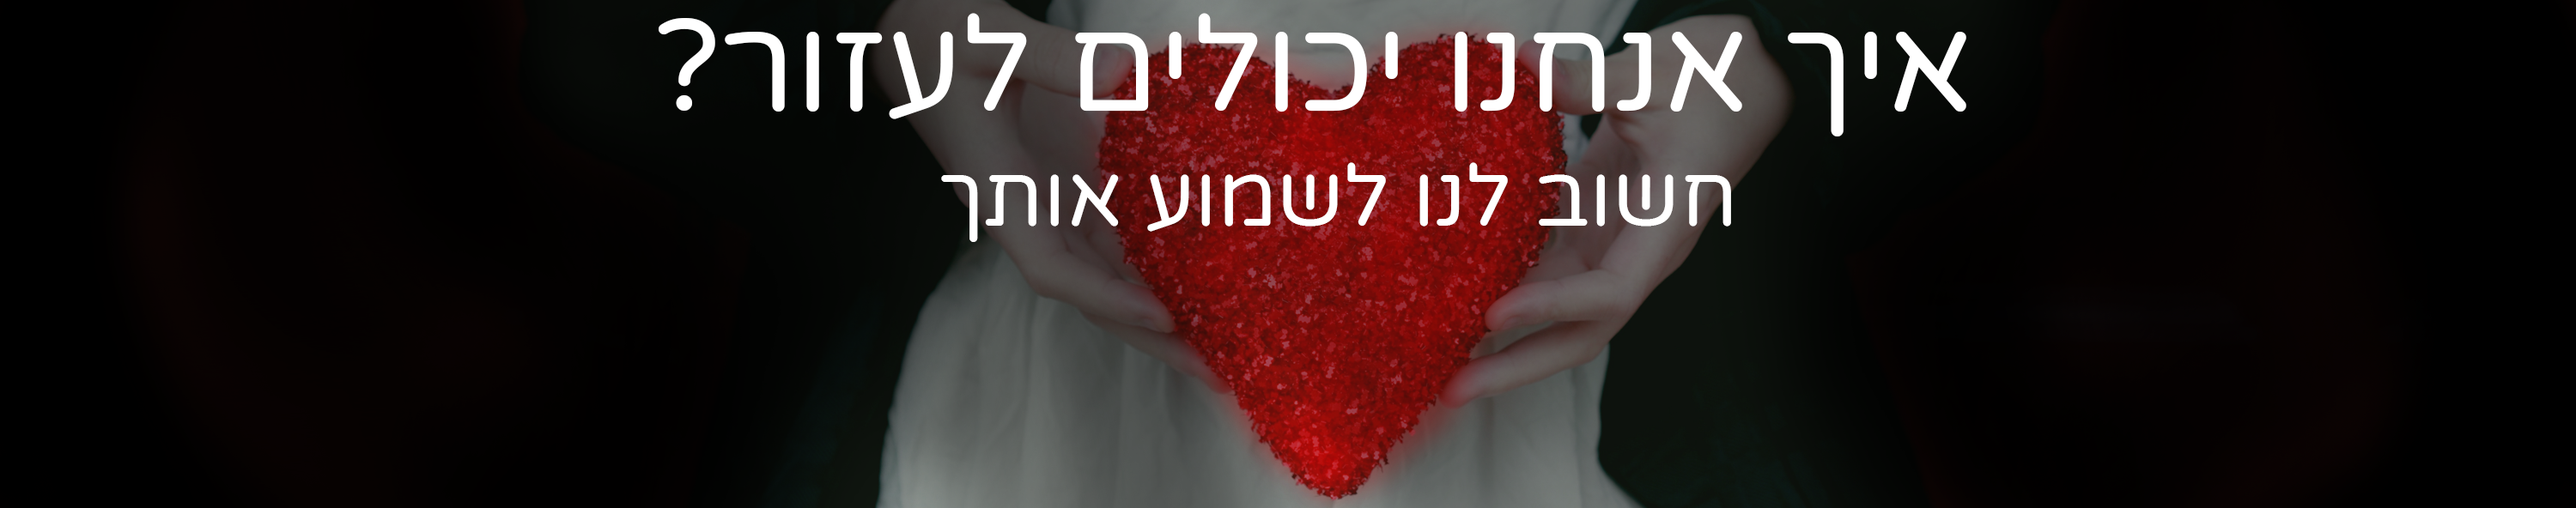
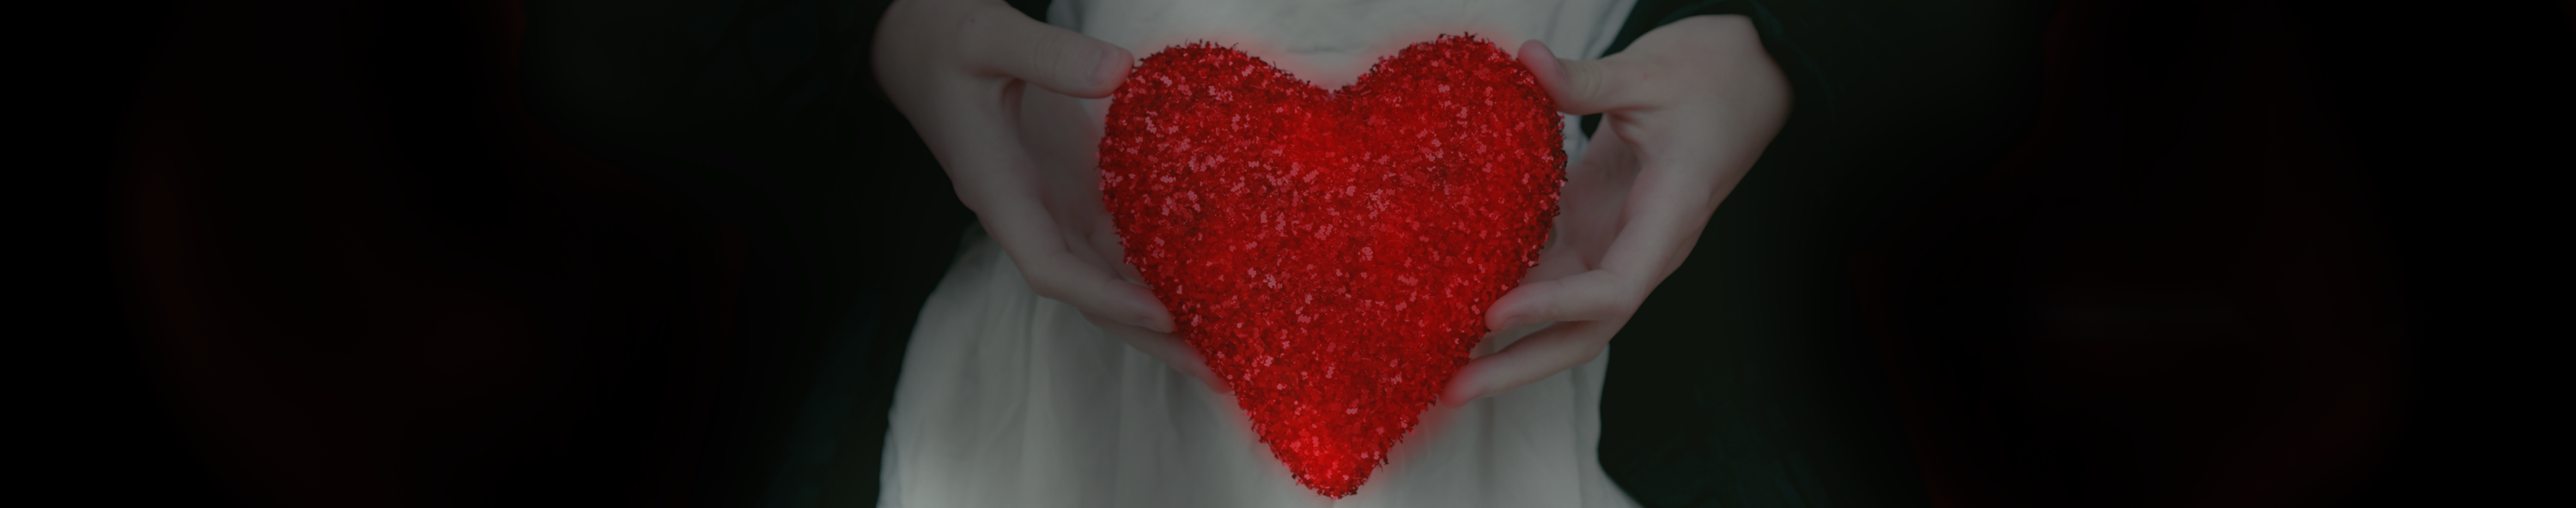
fixed home page styles

Changed region(s): [[0.248, 0.0304, 0.775, 0.2432], [0.372, 0.3345, 0.682, 0.4561]]

diff --git a/src/app/support-rep/support-rep.page.ts b/src/app/support-rep/support-rep.page.ts
@@ -3,6 +3,7 @@ import { FirestoreService } from '../firebase/firestore/firestore.service';
 import { GlobalService } from '../global/global.service';
 import { ActivatedRoute } from '@angular/router';
 import { AngularFireAuth } from '@angular/fire/auth';
+import { AlertController } from '@ionic/angular';
 
 @Component({
   selector: 'app-support-rep',
@@ -31,7 +32,8 @@ export class SupportRepPage implements OnInit {
     private firestore: FirestoreService,
     private global: GlobalService,
     private activatedRoute: ActivatedRoute,
-    private userAuth: AngularFireAuth) { }
+    private userAuth: AngularFireAuth,
+    private alertController: AlertController) { }
 
   ngOnInit() {
     this.firestore.getAdmins().subscribe(result => {
@@ -69,7 +71,21 @@ export class SupportRepPage implements OnInit {
     });
   }
 
-  createSupportRep() {
+  async createSupportRep() {
+
+// tslint:disable-next-line: max-line-length
+    if (this.first_name.value === '' || this.last_name.value === '' || this.id.value === '' || this.address.value === '' || this.age.value === '' || this.cellphone.value === '' || this.phone_num.value === '' || this.email.value === '' || this.password.value === '') {
+      const errorMsg = await this.alertController.create({
+        header: 'שגיאה',
+        message: 'אחד מהשדות לא מולאו. יש לוודא כי כל השדות מולאו',
+        buttons: [{
+          text: 'המשך',
+        }]
+      });
+
+      return errorMsg.present();
+    }
+
     this.userAuth.auth.createUserWithEmailAndPassword(this.email.value, this.password.value).then(result => {
       if (this.male.checked) {
 // tslint:disable-next-line: max-line-length
@@ -82,9 +98,34 @@ export class SupportRepPage implements OnInit {
         this.firestore.createSupportRep(result.user.uid, this.first_name.value, this.last_name.value, this.id.value, this.address.value, this.age.value, this.email.value, this.cellphone.value, this.phone_num.value, 'אחר');
       }
     });
+
+    const alert = await this.alertController.create({
+      header: 'נציג הוקם בהצלחה',
+      message: 'נציג זה הוקם בהצלחה. אנא לחץ המשך ליציאה',
+      buttons: [{
+        text: 'המשך',
+        handler: () => window.close()
+      }]
+    });
+
+    alert.present();
   }
 
-  updateSupportRep() {
+  async updateSupportRep() {
+
+    // tslint:disable-next-line: max-line-length
+    if (this.first_name.value === '' || this.last_name.value === '' || this.id.value === '' || this.address.value === '' || this.age.value === '' || this.cellphone.value === '' || this.phone_num.value === '' || this.email.value === '' || this.password.value === '') {
+      const errorMsg = await this.alertController.create({
+        header: 'שגיאה',
+        message: 'אחד מהשדות לא מולאו. יש לוודא כי כל השדות מולאו',
+        buttons: [{
+          text: 'המשך',
+        }]
+      });
+
+      return errorMsg.present();
+    }
+
     if (this.male.checked) {
 // tslint:disable-next-line: max-line-length
       this.firestore.updateSupportRepDetails(this.supportRepId, this.first_name.value, this.last_name.value, this.id.value, this.address.value, this.age.value, this.email.value, this.cellphone.value, this.phone_num.value, 'זכר');
@@ -95,17 +136,32 @@ export class SupportRepPage implements OnInit {
 // tslint:disable-next-line: max-line-length
       this.firestore.updateSupportRepDetails(this.supportRepId, this.first_name.value, this.last_name.value, this.id.value, this.address.value, this.age.value, this.email.value, this.cellphone.value, this.phone_num.value, 'אחר');
     }
+
+    const alert = await this.alertController.create({
+      header: 'נציג עודכן בהצלחה',
+      message: 'נציג זה עודכן בהצלחה. אנא לחץ המשך ליציאה',
+      buttons: [{
+        text: 'המשך',
+        handler: () => window.close()
+      }]
+    });
+
+    alert.present();
   }
 
   updateAdminList() {
+
     if (this.admin.checked) {
+      const index = this.adminsList.indexOf(this.supportRepId);
       this.adminsList.splice(this.adminsList.indexOf(this.supportRepId), 1);
-      console.log('checked');
     } else {
-      this.adminsList.push(this.supportRepId);
-      console.log('unchecked');
+      const isAdminAlready = this.adminsList.includes(this.supportRepId);
+      if (!isAdminAlready) {
+        this.adminsList.push(this.supportRepId);
+      }
     }
-    this.firestore.addToAdminList(this.adminsList);
+    console.log(this.adminsList);
+    // this.firestore.updateAdminList(this.adminsList);
   }
 
 }

diff --git a/src/app/main/main.component.html b/src/app/main/main.component.html
@@ -3,11 +3,11 @@
         <ion-col>
             <ion-card text-center class='toChat'>
                 <ion-grid fixed>
-                    <!-- <ion-row>
+                    <ion-row style='display: grid; margin-top: 5%;'>
                         <h1>איך אנחנו יכולים לעזור?</h1>
                         <h3>חשוב לנו לשמוע אותך</h3>
-                    </ion-row> -->
-                    <ion-row style='margin-top: 15%;'>
+                    </ion-row>
+                    <ion-row>
                         <ion-col>
                             <!-- <ion-row>
                                 <ion-col text-center>
@@ -25,7 +25,6 @@
                             </ion-row> -->
                             <img src='/assets/partOfPages/facebook_icon.png' class='icons' (click)='sendToFacebook()' />
                         </ion-col>
-
                         <ion-col>
                             <!-- <ion-row>
                                 <ion-col text-center>

diff --git a/src/app/app-routing.module.ts b/src/app/app-routing.module.ts
@@ -11,8 +11,8 @@ const routes: Routes = [
   { path: 'client-profile/:id', loadChildren: './client-profile/client-profile.module#ClientProfilePageModule', canActivate: [AuthGuard] },
   { path: 'login', loadChildren: './login/login.module#LoginPageModule' },
   { path: 'profile', loadChildren: './profile/profile.module#ProfilePageModule', canActivate: [AuthGuard] },
-  { path: 'support-rep', loadChildren: './support-rep/support-rep.module#SupportRepPageModule' },
-  { path: 'support-rep/:id', loadChildren: './support-rep/support-rep.module#SupportRepPageModule' },
+  { path: 'support-rep', loadChildren: './support-rep/support-rep.module#SupportRepPageModule', canActivate: [AuthGuard] },
+  { path: 'support-rep/:id', loadChildren: './support-rep/support-rep.module#SupportRepPageModule', canActivate: [AuthGuard] },
   { path: '404', loadChildren: './not-found/not-found.module#NotFoundPageModule' },
   { path: '**', redirectTo: '404' }
 

diff --git a/src/app/support-rep/support-rep.page.html b/src/app/support-rep/support-rep.page.html
@@ -113,8 +113,8 @@
                 <ion-col>
                   <ion-button (click)='createSupportRep()'>צור נציג</ion-button>
                   <ion-button (click)='updateSupportRep()' style='margin-right: 2%;'>עדכן נציג</ion-button>
-                  <ion-checkbox #admin style="margin-right: 2%;" (click)='updateAdminList()'></ion-checkbox>
-                  <ion-label style="margin-right: 1%;">אדמין</ion-label>
+                  <ion-checkbox #admin style="margin-right: 2%;" (click)='updateAdminList()' checked='false'></ion-checkbox>
+                  <ion-label style="margin-right: 1%;">מנהל</ion-label>
                 </ion-col>
               </ion-row>
             </ion-grid>

diff --git a/src/app/global/global.service.ts b/src/app/global/global.service.ts
@@ -130,7 +130,7 @@ export class GlobalService {
   async invalidImage() {
     const alert = await this.alertController.create({
       header: 'קובץ אינו תקין',
-      message: 'סוג הקובץ שהעלית איננו תמונה. אנא העלה סוג קובץ אחר',
+      message: 'סוג הקובץ שהעלית איננו תמונה. אנא העלה קובץ מסוג JPG, JPEG, PNG',
       buttons: [{
         text: 'אישור'
       }]

diff --git a/src/app/firebase/firestore/firestore.service.ts b/src/app/firebase/firestore/firestore.service.ts
@@ -317,7 +317,7 @@ export class FirestoreService {
     return this.firestore.collection(this.METADATA_COLLECTION).doc('metadata').valueChanges();
   }
 
-  public addToAdminList(admins) {
+  public updateAdminList(admins) {
     this.firestore.collection(this.METADATA_COLLECTION).doc('metadata').update({ admins });
   }
 

diff --git a/src/app/main/main.component.scss b/src/app/main/main.component.scss
@@ -38,7 +38,8 @@ ion-card {
 }
 
 .icons {
-    height: 100px;
-    width: 100px;
-    margin-right: 30%;
+    height: 70%;
+    width: 50%;
+    margin-right: 18%;
+    margin-top: 10%;
 }
